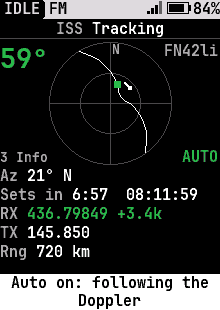
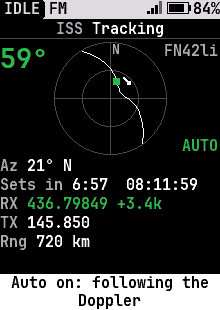
Tracking: the 3 Info and 0 Squelch keys in a row above the hint bar
The corner hint read like a stray row. On a tall panel a row above the bar now has '3 Info' at the left and '0 Squelch' at
the right, which also gives the squelch key a label for the first time. The numbers above end before it.

Claude-Session: https://claude.ai/code/session_01MdiBNQ6CEoU6TQqfu2kZeZ

diff --git a/core/ui/ui_sat.c b/core/ui/ui_sat.c
@@ -839,10 +839,16 @@ static void track_draw(void)
 	}
 	gfx_clear(ui_col.bg);
 	int y = ui_draw_top(ui_view(), &ui_st, open_name, TR("Tracking")) + 2;
-	int w = gfx_width(), h = ui_layout.hint_y - y - 1;
+	int w = gfx_width();
 	bool below = gfx_height() > w;		// a tall panel: the numbers under the plot
 	const font_t *fs = ui_layout.small;
 	int rh = fs->h + (ui_layout.row_h > fs->h ? 1 : 0);	// a row of the numbers
+	// A tall panel keeps a row above the hint bar for the keys the bar has no room for (3 and 0): everything above ends
+	// before it, so the row's space comes off the numbers' (the hint row is put back before the bar is drawn)
+	int hint_y = ui_layout.hint_y;
+	if (below)
+		ui_layout.hint_y -= rh;
+	int h = ui_layout.hint_y - y - 1;
 	const font_t *big = below || w >= 200 ? ui_layout.large : ui_layout.medium;
 	// The satellite is drawn only while it is above the horizon: below it, or outside the pass's margin, the plot shows
 	// the path alone and the service works nothing out
@@ -957,7 +963,6 @@ static void track_draw(void)
 		}
 		if (loc[0] != '\0')
 			gfx_text(fs, w - gfx_text_width(fs, loc) - 2, y + 1, loc, ui_col.dim);
-		gfx_text(ui_layout.tiny, 0, y + side - ui_layout.tiny->h, TR("3 Info"), ui_col.dim);
 	}
 	int x = below ? 0 : cx + r + 5;
 	int ty = below ? cy + r + 3 : y;
@@ -1083,6 +1088,13 @@ static void track_draw(void)
 	}
 	if (!below && times && st.utc != 0 && st.utc < trk_los)
 		trow(x, &ty, up2 ? "AOS" : "LOS", up2 ? t_aos : t_los, ui_col.dim);
+	ui_layout.hint_y = hint_y;
+	if (below) {
+		// The keys the bar has no room for: 3 for the Info view at the left, 0 for the squelch at the right
+		const char *sq = TR("0 Squelch");
+		gfx_text(fs, 2, hint_y - rh, TR("3 Info"), ui_col.dim);
+		gfx_text(fs, w - gfx_text_width(fs, sq) - 2, hint_y - rh, sq, ui_col.dim);
+	}
 	ui_draw_bottom(&ui_st, trk_follow.on ? TR(TEXT_ALT_OPEN "0 Squelch  # Retune  * Stop  OK Freq  Back" TEXT_ALT_NEXT "0 Sql  # Tune  * Stop  OK Freq  Back" TEXT_ALT_NEXT "0 Sql  # Tune  * Stop  Back" TEXT_ALT_NEXT "# Tune  * Stop  Back" TEXT_ALT_CLOSE) :
 		       trk_tuned ? TR(TEXT_ALT_OPEN "0 Squelch  # Retune  * Auto  OK Freq  Back" TEXT_ALT_NEXT "0 Sql  # Tune  * Auto  OK Freq  Back" TEXT_ALT_NEXT "0 Sql  # Tune  * Auto  Back" TEXT_ALT_NEXT "# Tune  * Auto  Back" TEXT_ALT_CLOSE) :
 		       TR(TEXT_ALT_OPEN "0 Squelch  # Tune  * Auto  OK Freq  Back" TEXT_ALT_NEXT "0 Sql  # Tune  * Auto  OK Freq  Back" TEXT_ALT_NEXT "0 Sql  # Tune  * Auto  Back" TEXT_ALT_NEXT "# Tune  * Auto  Back" TEXT_ALT_CLOSE));

diff --git a/docs/spec/ui.md b/docs/spec/ui.md
@@ -289,7 +289,7 @@ the results arrive; a list redraws every second.
 | A pass's row | the rise time and the peak elevation, then the arrow, the directions it rises and sets in and its length ("↘ NW→SE 13m", shorter forms where it doesn't fit); a "Tomorrow" line (not focusable) before the first pass of the next local day; "Working…" while the 24 hours aren't all searched |
 | Track title | the satellite's name and "Tracking" |
 | Track plot | a sky plot with north up: the pass's whole path (24 points, worked out by the service), the pass's arrow beside the middle of the path, and the satellite as a dot, green above the horizon |
-| Track numbers | the elevation large (or "Below horizon"; on a tall panel the elevation sits large in the plot's upper left corner, nothing there while the satellite is below the horizon), azimuth with its compass point, the time to the set ("Sets in 6:58" on a tall panel, "LOS 08:12 6:58" beside the plot) or to the rise ("Rises in" / "AOS"), the radio's own frequencies, the range, and the next event's time. On a tall panel the countdown row reads "Sets in 6:57  08:11:59" (the time to the second, in the zone of `utc_offset_min`: local, or UTC with "Pass times in UTC"; the time is left off when the row is too narrow), the azimuth has its row, the elevation sits large in the plot's upper left corner (nothing while the satellite is below the horizon), the locator bare in the upper right, "3 Info" dim in the lower left and "AUTO" in the lower right; RX and TX share a row when both fit. The plot shrinks (to a third of the width at least) so the rows fit, and the rows that still don't are dropped from the bottom. Beside the plot the countdown row carries its event's time as hh:mm ("LOS 08:12 6:58", the time alone when the row is narrow), then MAX and the other end of the pass after the frequencies, each only where a row is left, and the elevation and the azimuth share a row when they fit. A small panel drops what doesn't fit, from the bottom |
+| Track numbers | the elevation large (or "Below horizon"; on a tall panel the elevation sits large in the plot's upper left corner, nothing there while the satellite is below the horizon), azimuth with its compass point, the time to the set ("Sets in 6:58" on a tall panel, "LOS 08:12 6:58" beside the plot) or to the rise ("Rises in" / "AOS"), the radio's own frequencies, the range, and the next event's time. On a tall panel the countdown row reads "Sets in 6:57  08:11:59" (the time to the second, in the zone of `utc_offset_min`: local, or UTC with "Pass times in UTC"; the time is left off when the row is too narrow), the azimuth has its row, the elevation sits large in the plot's upper left corner (nothing while the satellite is below the horizon), the locator bare in the upper right, "AUTO" in the lower right, and, in a row of its own above the hint bar, "3 Info" at the left and "0 Squelch" at the right (the keys the bar has no room for; the numbers above end before that row); RX and TX share a row when both fit. The plot shrinks (to a third of the width at least) so the rows fit, and the rows that still don't are dropped from the bottom. Beside the plot the countdown row carries its event's time as hh:mm ("LOS 08:12 6:58", the time alone when the row is narrow), then MAX and the other end of the pass after the frequencies, each only where a row is left, and the elevation and the azimuth share a row when they fit. A small panel drops what doesn't fit, from the bottom |
 | Track keys | `#` tune the receiver to the downlink (first press: the VFO on the satellite's profile; later: a light retune, `RREQ_RX_HZ`), `*` following the Doppler on and off (tunes first when not tuned; the screen takes `*` from the quick menu, `SF_OWN_QUICK`), `OK` swaps the base of the downlink between the satellite's own and the one saved for it (with none saved it opens the Frequency screen), `1` opens the Frequency screen (`sat-freq`, below), `0` squelch open on and off (FM; a toast says which; Back closes it), the dial or Up / Down nudge the downlink 1 kHz a detent (toast "Dial +1.0k"; a short `#` keeps the nudge, a held `#` clears it and retunes to the computed frequency alone: the screen's key hook gets a long CONTEXT first, `SF_HOLD_CONTEXT`, before the talk target picker). Back ends following and leaves the VFO this screen entered (`.leave` in `ui_scr_def_t`: popped or Home). The hint row lists the keys with shorter forms for narrow panels ("0 Squelch  # Tune  * Auto  Back"; "# Retune" once tuned, "* Stop" while following) |
 | Track receive | always the frequencies the radio is on, whatever it was playing: "RX" and "TX" from the radio's view (`ch.rx_hz`, `ch.tx_hz`: a satellite's are the VFO's after `#`, the downlink with its shift from the profile's and the uplink as the split; the TX one is the nominal uplink, the radio does not shift it). Tuned, the RX row is in the receive color, in the warning color when the receiver is 1.5 kHz or more from where it should be; not tuned, a dim "Tune" row after TX gives the corrected downlink to tune to. While following, "AUTO" in the receive color at the right end of the RX row (a tall panel, when the text leaves room) or an "Auto on" row |
 | Frequency | Tracking > OK (`sat-freq`): the typed digits large as on the VFO (`ui_freq_entry_digit` / `ui_freq_entry_hz`: positional, only digits some receive band can start with), what it is for, "Receive only", the satellite's own downlink and, when set, yours. OK saves the typed frequency for the satellite (`UI_SET_SAT_ALT_NORAD` / `_HZ`: one frequency, the last typed) and listens on it, as the base the Doppler works on (a toast says "Listening on 145.80000: RX only"); with nothing typed it just leaves. Tracking's OK then swaps between it and the satellite's own ("The satellite's own frequency"), and an "OK" row there shows the frequency a press swaps to. The screen lists "Its own" and "Yours" under the digits. Back takes a digit back, with none typed it leaves. A fewer-than-MHz-digits or out-of-band entry is refused with its toast and the screen stays. Kept in the settings across power cycles; Tracking starts on the satellite's own each time. The TX row on Tracking reads "RX only" while yours is on. The stack is 7 deep for it (Home, hub, Tools, Satellites, Passes, Tracking, Frequency) |
